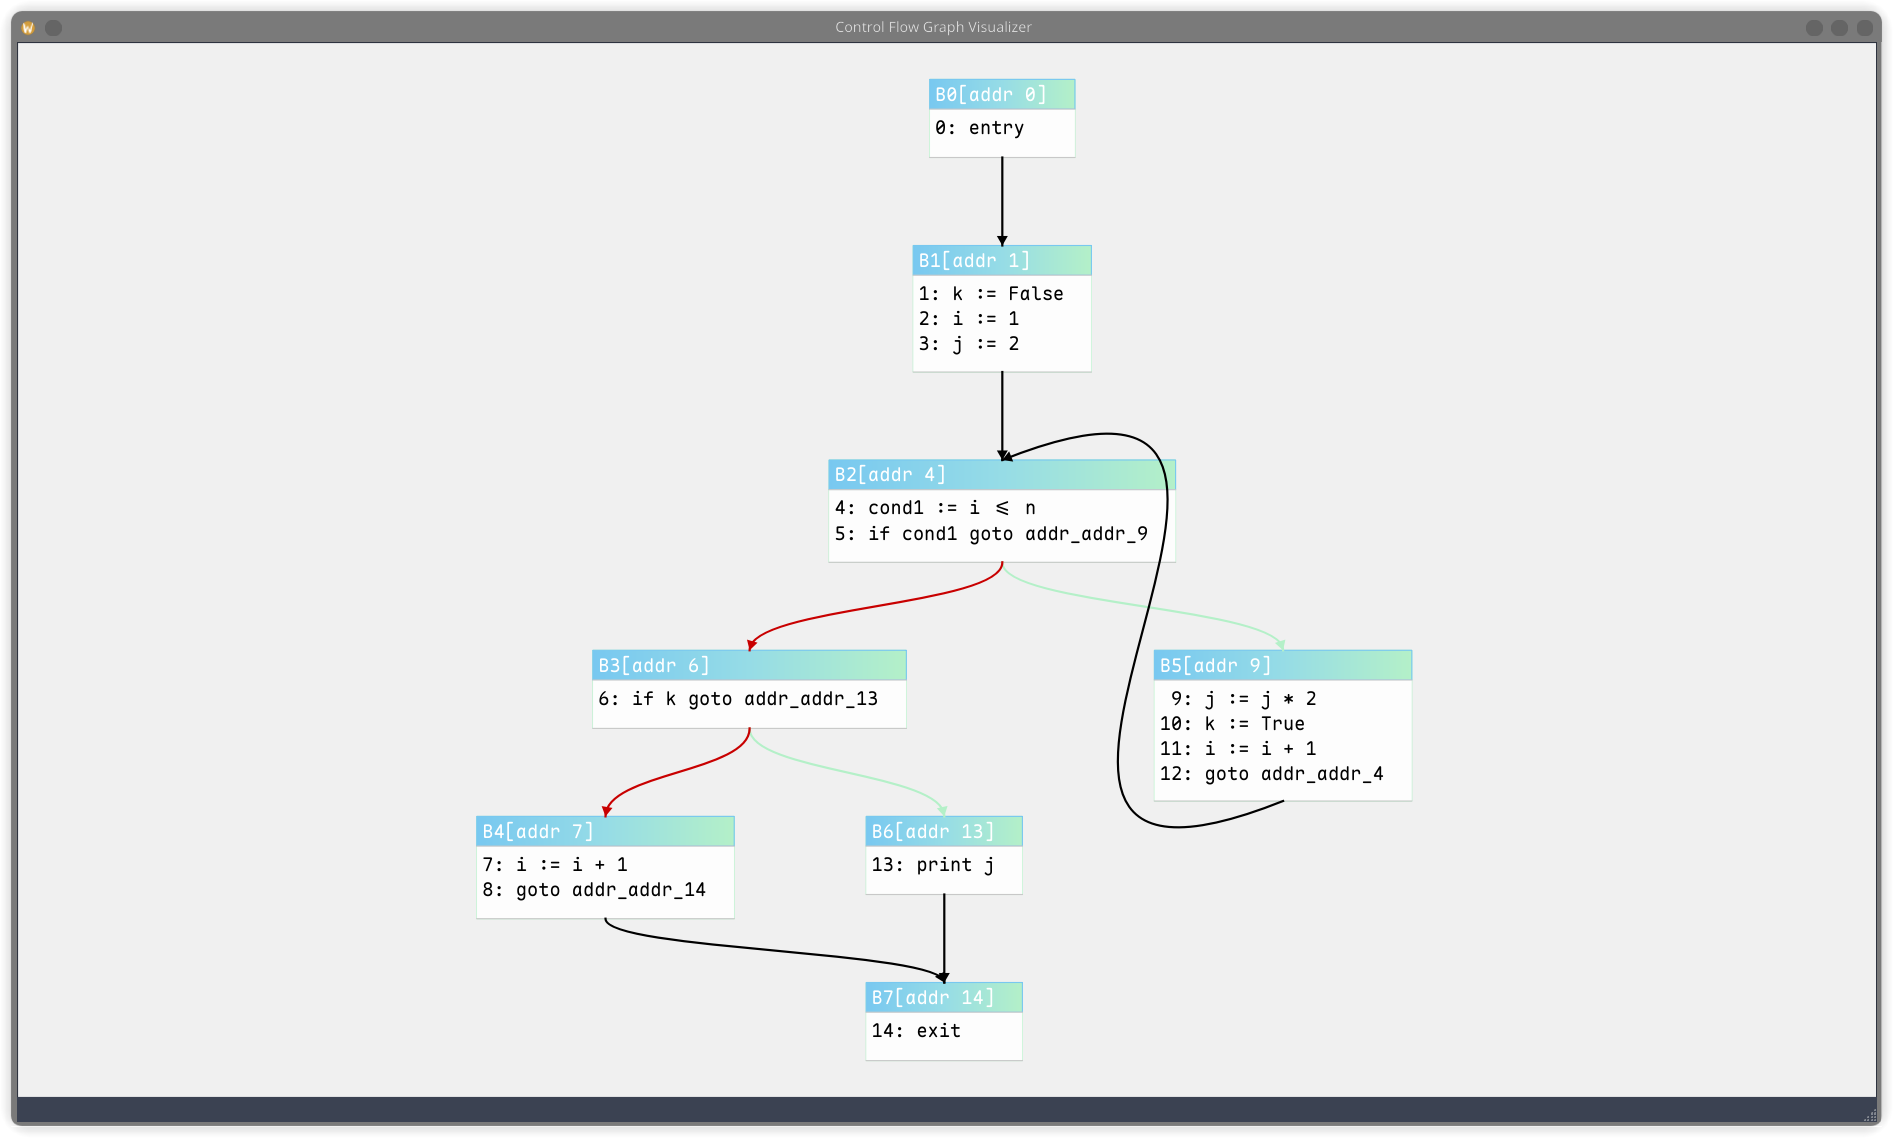
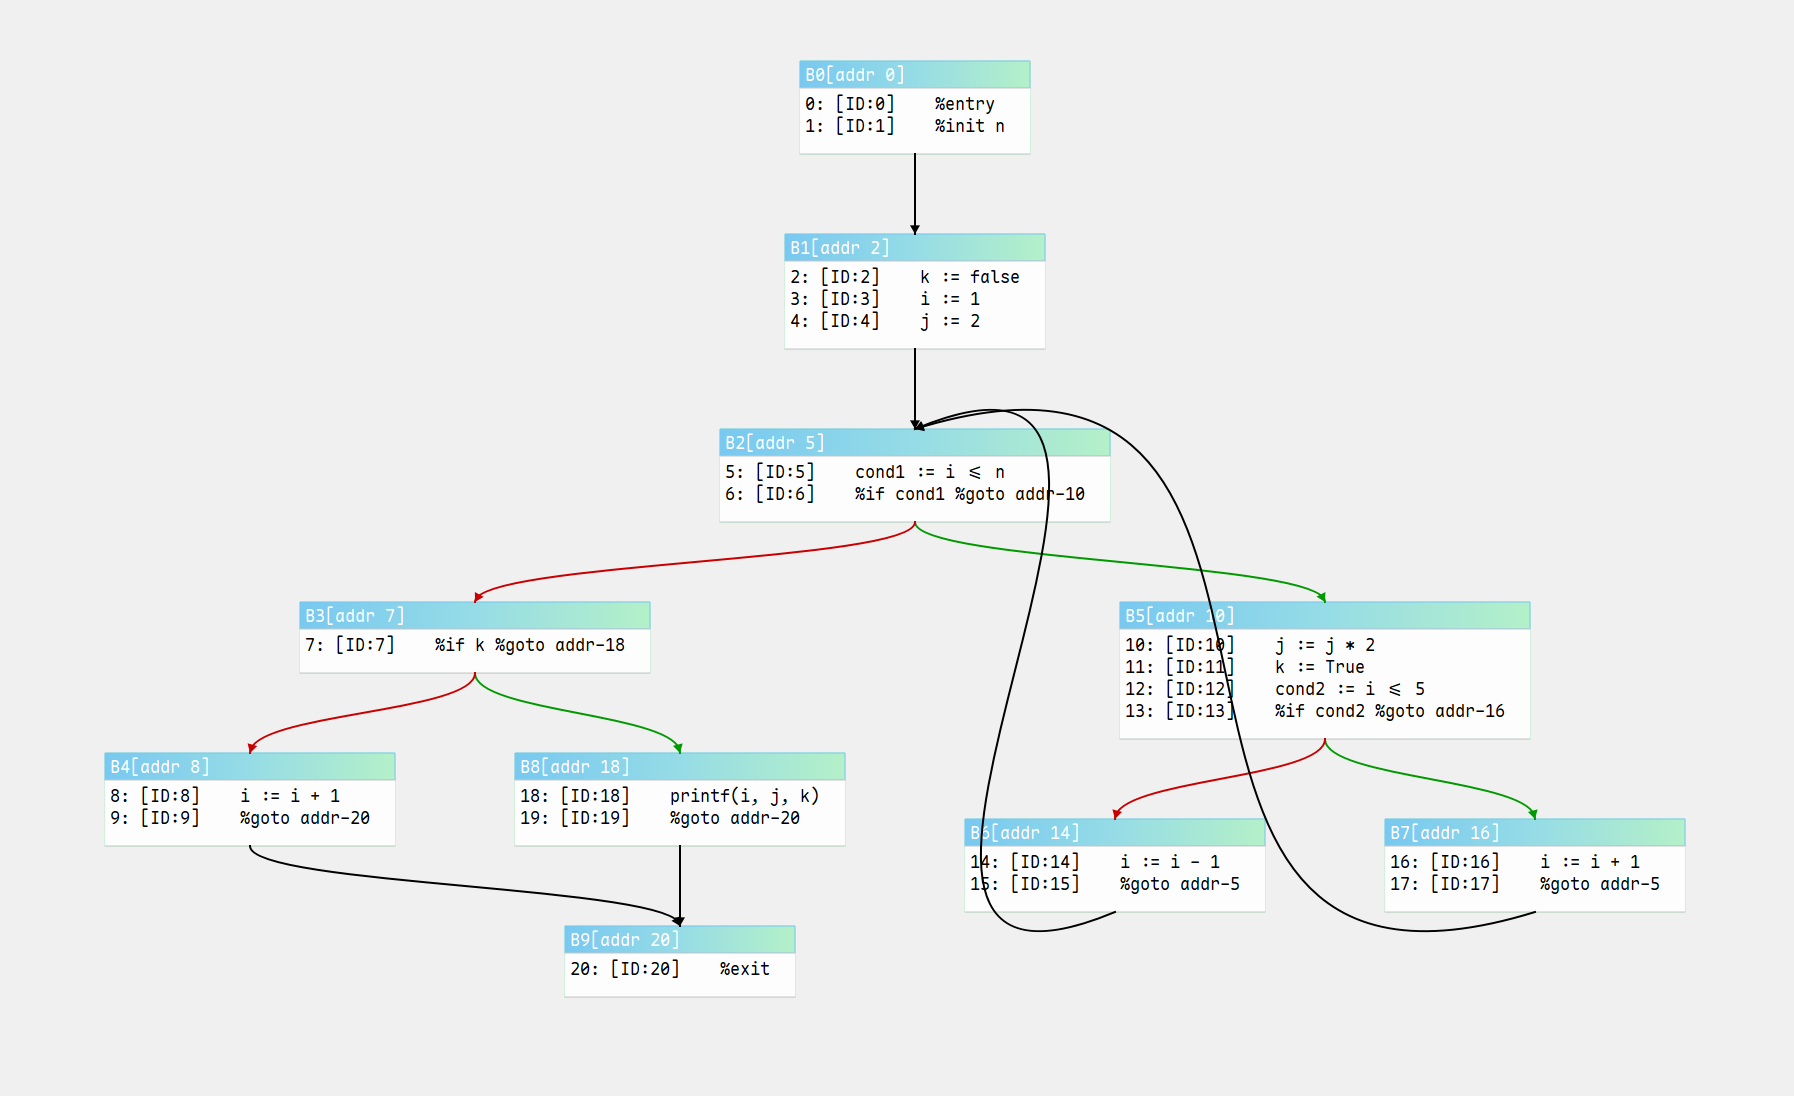
Update README.md

diff --git a/README.md b/README.md
@@ -1,82 +1,128 @@
 # Code Optimization Framework
 
-***
+**这并不是一个可用的工具，只是出于学习的目的**
+
+
 
 ## 介绍
 
-Python实现的程序分析框架，可作为编译器后端。正在开发中。
+由Python实现的程序分析框架，通过对传入的MIR进行解析转化成控制流图，对控制流图进行静态分析为后续的优化或者反编译做指导。已经支持数据流分析框架，并包含一些经典的数据流分析问题，如到达定值，活跃变量分析等。同时支持使用符号执行的稀疏条件的常量传播。后续会逐渐添加更强大的分析算法。
 
-***
+在可视化方面，框架内置了一个根据PyQt6开发的控制流图可视化器。在布局方面，可视化器使用 [Reingold-Tilford算法](https://github.com/ccoskrnl/tree_layout_demo) 对控制流图进行初始的布局，但每个基本块都被设置为可拖动的节点。在控制流图边绘制这方面并没有进行很好的实现，对于特殊边的处理效果更是混乱。
 
-## 演示
 
-### MIR to CFG
 
-自定义MIR语法
+## 特性
+
+### MIR
+
+框架使用自定义的MIR
 
 ```
-# test/ssa_example.ir
+# test/example.ir
 
-    entry
+    %entry
+	%init n
+
     k := false
     i := 1
     j := 2
 L1:
     cond1 := i <= n
-    if cond1 goto &L2
-    if k goto &L3
+    %if cond1 %goto &L2
+    %if k %goto &L4
     i := i + 1
-    goto &L4
+    %goto &L5
 L2:
     j := j * 2
-    k := true
-    i := i + 1
-    goto &L1
+    k := %true
+    cond2 := i <= 5
+    %if cond2 %goto &L3
+    i := i - 1
+    %goto &L1
 L3:
-    print j
+    i := i + 1
+    %goto &L1
 L4:
-    exit
+    printf ( i j k )
+    %goto &L5
+
+L5:
+    %exit
 ```
 
-可视化控制流图展示
+| **元素类型**              | **示例代码**               | **功能说明**                                                 |
+| ------------------------- | -------------------------- | ------------------------------------------------------------ |
+| **基本块（Basic Block）** | `%entry`、`L1:`、`L2:`     | 以标签定义代码块，包含顺序语句和终结指令；`%entry` 为入口块。 |
+| **变量赋值**              | `k := false`、`i := 1`     | 用 `:=` 初始化或更新变量，支持布尔值、整数等基本类型。       |
+| **条件跳转**              | `%if cond1 %goto &L2`      | 若条件成立（如 `cond1` 为真），跳转到目标块（`L2`）。        |
+| **无条件跳转**            | `%goto &L1`                | 强制跳转到指定块，用于循环或分支合并。                       |
+| **算术运算**              | `j := j * 2`、`i := i + 1` | 支持加减乘除等运算，直接操作变量。                           |
+| **函数调用**              | `printf(i j k)`            | 嵌入外部函数，参数以空格分隔。                               |
+| **程序边界标记**          | `%exit`                    | 标识程序终止点，辅助编译器优化资源释放。                     |
+
+### 控制流图可视化
+
+上面的MIR在被转换为控制流图后可以被控制流图可视化器绘制。效果如下图所示：
 
 ![cfg_demo](./tmp/readme_ref_img01.png)
 
-最小化SSA计算展示
+### 数据流框架
 
-![minimal_ssa](./tmp/readme_ref_mininal_ssa.png)
+在数据流分析算法的实现中，框架并没有遵循严格意义上的“交半格”或者“并半格“，而是统一使用”并半格“的概念。这样的好处是只要我们选择合适的meet操作以及初始值和安全值就可以统一的对各种常规的数据流问题进行求解。框架的参数如下：
 
-### 常量折叠
+```python
+class DataFlowAnalysisFramework(Generic[T, B]):
+    """Generic data flow analysis framework supporting forward and backward analyses.
 
-MIR示例源码
+    Attributes:
+        cfg: Control flow graph of the program
+        lattice: Abstract semilattice defining the value domain and operations
+        transfer: Transfer function implementation for basic blocks
+        direction: Analysis direction ('forward' or 'backward')
+        merge: Function for merging values at control flow joins
+        on_state_change: Optional callback for state change events
+    """
+    def __init__(self,
+                 cfg: 'ControlFlowGraphForDataFlowAnalysis',
+                 lattice: 'Semilattice[T]',
+                 transfer: 'TransferFunction[T, B]',
+                 direction: str = 'forward', # 'forward' or 'backward'
+                 init_value: T = None,
+                 safe_value: T = None,
+                 merge_operation: Optional[Callable[[Iterable[T]], T]] = None,
+                 on_state_change: Optional[Callable[[B, T, T], None]] = None):
+        """
+        Initialize the data flow analysis framework.
 
+        Args:
+            cfg: Control flow graph
+            lattice: Semilattice defining the value domain
+            transfer: Transfer function implementation
+            direction: Analysis direction ('forward' or 'backward')
+            init_value: Initial value for the entry/exit block
+            safe_value: Safe value for other blocks
+            merge_operation: Function for merging values (default: lattice.meet)
+            on_state_change: Callback for state change events
+        """
 ```
-    entry
-    a := 2
-    b := 3
-    cond1 := a < b
-    if cond1 goto &L1
-    c := 5
-    goto &L2
-L1:
-    c := 4
-L2:
-    exit
-```
 
-| Before                                               | After                                                                                 |
-| ---------------------------------------------------- | ------------------------------------------------------------------------------------- |
-| ![](./tmp/readme_ref_const_folding_before.png)Before | <img title="" src="./tmp/readme_ref_const_folding_after.png" alt="" width="774">After |
+### 稀疏条件的常量传播
 
-## TODO
+稀疏条件的常量传播（Sparse Conditional Constant Propagation，SCCP）是普通常量传播的增强版，结合了**常量传播**与**条件分支分析**，能更精确地处理控制流和稀疏数据流。框架首先通过迭代必经边界方法将流图转换为最小的SSA形式，并对基本块进行扁平化（或原子化），并使用流图的边和SSA边来传递信息实现程序的符号执行。
+
+
+
+## 路标
 
 - [x] 数据流分析框架
-- [x] 最小化SSA计算
 - [x] 稀有条件常量传播(符号执行)
-- [x] 常量折叠
-- [ ] 死代码消除
+- [ ] 循环依赖分析
+- [ ] 别名分析
 - [ ] 高级数据流分析
 - [ ] 控制树规约
+
+
 
 ## License
 
